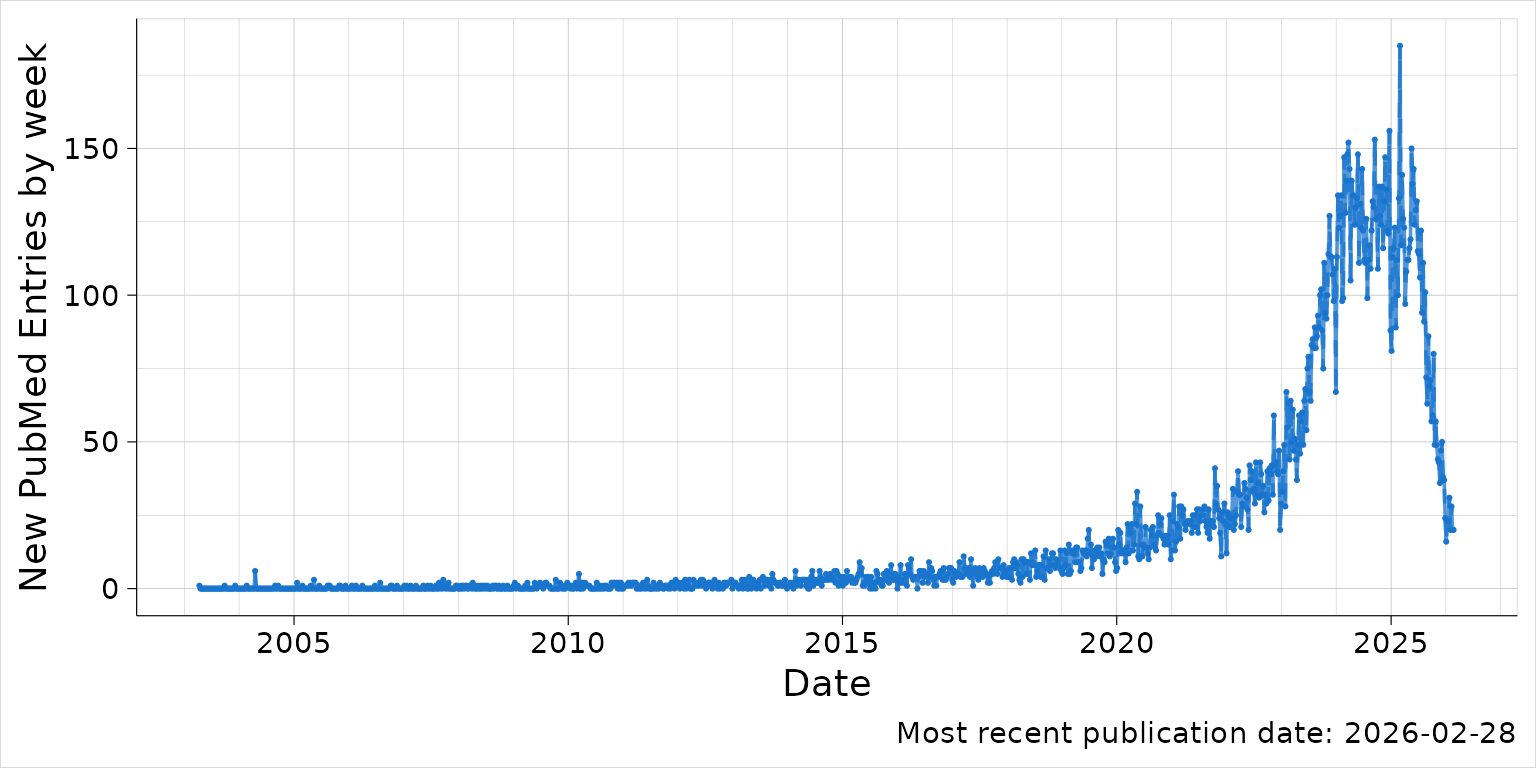
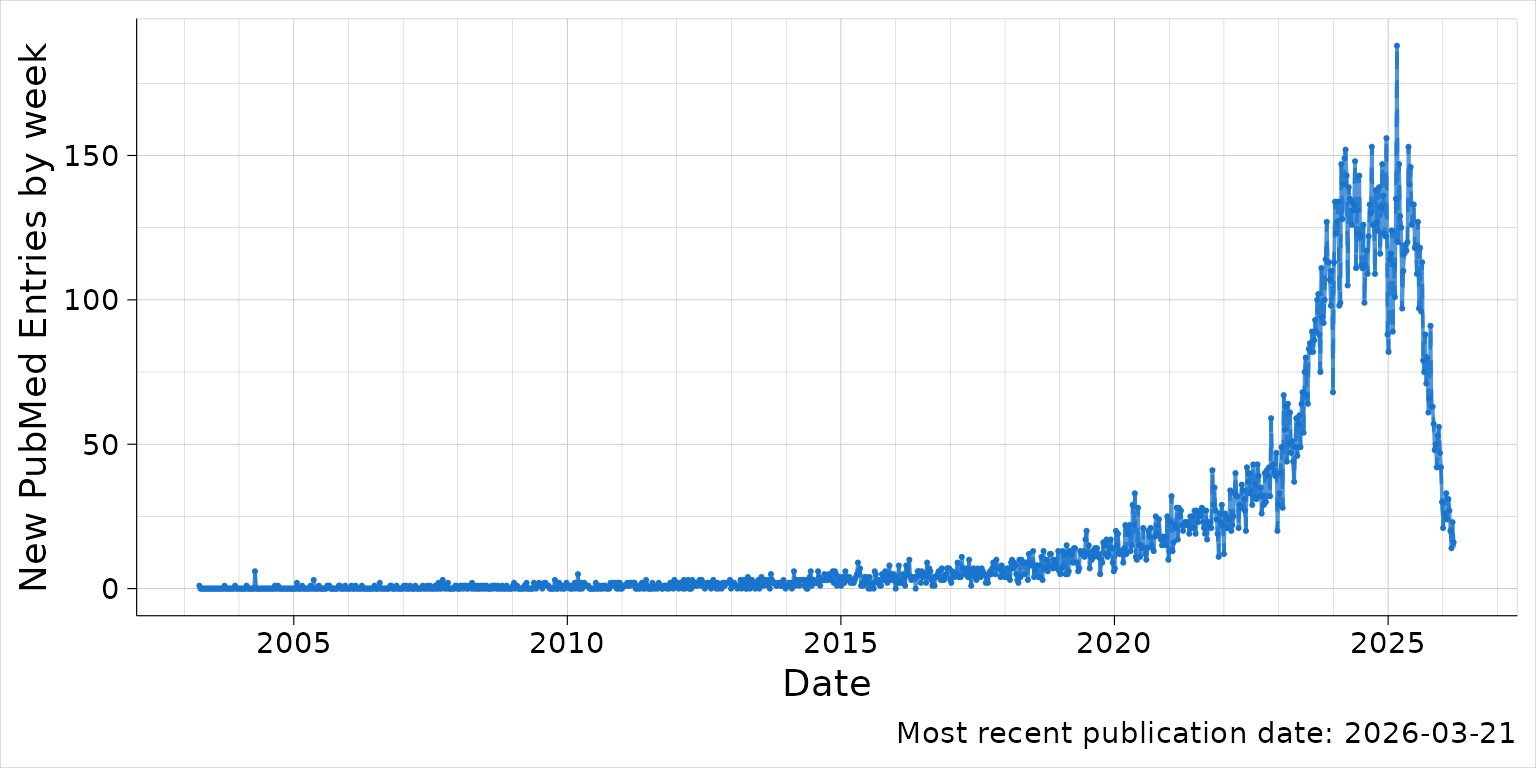
Deploying to gh-pages from @ explodecomputer/PubmedPlot@068eacdf5acdc66ea1c8a3d5640505ac4a8cb4ee 🚀

diff --git a/articles/mr.html b/articles/mr.html
@@ -174,16 +174,16 @@
 <span><span class="co">#&gt; Fetching records 1501 to 1654 </span></span>
 <span><span class="co">#&gt; Searching for year: 2023 </span></span>
 <span><span class="co">#&gt; Search term: "Mendelian randomisation" [tiab] OR "Mendelian randomization" [tiab] AND ("2023/01/01"[dp] : "2023/12/31"[dp]) </span></span>
-<span><span class="co">#&gt; Found 2979 articles matching the search term.</span></span>
+<span><span class="co">#&gt; Found 2980 articles matching the search term.</span></span>
 <span><span class="co">#&gt; Fetching records 1 to 500 </span></span>
 <span><span class="co">#&gt; Fetching records 501 to 1000 </span></span>
 <span><span class="co">#&gt; Fetching records 1001 to 1500 </span></span>
 <span><span class="co">#&gt; Fetching records 1501 to 2000 </span></span>
 <span><span class="co">#&gt; Fetching records 2001 to 2500 </span></span>
-<span><span class="co">#&gt; Fetching records 2501 to 2979 </span></span>
+<span><span class="co">#&gt; Fetching records 2501 to 2980 </span></span>
 <span><span class="co">#&gt; Searching for year: 2024 </span></span>
 <span><span class="co">#&gt; Search term: "Mendelian randomisation" [tiab] OR "Mendelian randomization" [tiab] AND ("2024/01/01"[dp] : "2024/12/31"[dp]) </span></span>
-<span><span class="co">#&gt; Found 6434 articles matching the search term.</span></span>
+<span><span class="co">#&gt; Found 6435 articles matching the search term.</span></span>
 <span><span class="co">#&gt; Fetching records 1 to 500 </span></span>
 <span><span class="co">#&gt; Fetching records 501 to 1000 </span></span>
 <span><span class="co">#&gt; Fetching records 1001 to 1500 </span></span>
@@ -196,10 +196,10 @@
 <span><span class="co">#&gt; Fetching records 4501 to 5000 </span></span>
 <span><span class="co">#&gt; Fetching records 5001 to 5500 </span></span>
 <span><span class="co">#&gt; Fetching records 5501 to 6000 </span></span>
-<span><span class="co">#&gt; Fetching records 6001 to 6434 </span></span>
+<span><span class="co">#&gt; Fetching records 6001 to 6435 </span></span>
 <span><span class="co">#&gt; Searching for year: 2025 </span></span>
 <span><span class="co">#&gt; Search term: "Mendelian randomisation" [tiab] OR "Mendelian randomization" [tiab] AND ("2025/01/01"[dp] : "2025/12/31"[dp]) </span></span>
-<span><span class="co">#&gt; Found 7126 articles matching the search term.</span></span>
+<span><span class="co">#&gt; Found 7131 articles matching the search term.</span></span>
 <span><span class="co">#&gt; Fetching records 1 to 500 </span></span>
 <span><span class="co">#&gt; Fetching records 501 to 1000 </span></span>
 <span><span class="co">#&gt; Fetching records 1001 to 1500 </span></span>
@@ -214,13 +214,14 @@
 <span><span class="co">#&gt; Fetching records 5501 to 6000 </span></span>
 <span><span class="co">#&gt; Fetching records 6001 to 6500 </span></span>
 <span><span class="co">#&gt; Fetching records 6501 to 7000 </span></span>
-<span><span class="co">#&gt; Fetching records 7001 to 7126 </span></span>
+<span><span class="co">#&gt; Fetching records 7001 to 7131 </span></span>
 <span><span class="co">#&gt; Searching for year: 2026 </span></span>
 <span><span class="co">#&gt; Search term: "Mendelian randomisation" [tiab] OR "Mendelian randomization" [tiab] AND ("2026/01/01"[dp] : "2026/12/31"[dp]) </span></span>
-<span><span class="co">#&gt; Found 1213 articles matching the search term.</span></span>
+<span><span class="co">#&gt; Found 1565 articles matching the search term.</span></span>
 <span><span class="co">#&gt; Fetching records 1 to 500 </span></span>
 <span><span class="co">#&gt; Fetching records 501 to 1000 </span></span>
-<span><span class="co">#&gt; Fetching records 1001 to 1213</span></span>
+<span><span class="co">#&gt; Fetching records 1001 to 1500 </span></span>
+<span><span class="co">#&gt; Fetching records 1501 to 1565</span></span>
 <span><span class="co"># write_json(a, "pubmed_abstracts.json", pretty=TRUE)</span></span>
 <span><span class="va">b</span> <span class="op">&lt;-</span> <span class="fu"><a href="../reference/group_by_time_interval.html">group_by_time_interval</a></span><span class="op">(</span><span class="va">a</span><span class="op">)</span></span>
 <span><span class="va">p</span> <span class="op">&lt;-</span> <span class="fu"><a href="../reference/plot_time_interval.html">plot_time_interval</a></span><span class="op">(</span><span class="va">b</span><span class="op">)</span></span></code></pre></div>

diff --git a/articles/mr.md b/articles/mr.md
@@ -112,16 +112,16 @@ a <- PubmedPlot::search_term_by_year('"Mendelian randomisation" [tiab] OR "Mende
 #> Fetching records 1501 to 1654 
 #> Searching for year: 2023 
 #> Search term: "Mendelian randomisation" [tiab] OR "Mendelian randomization" [tiab] AND ("2023/01/01"[dp] : "2023/12/31"[dp]) 
-#> Found 2979 articles matching the search term.
+#> Found 2980 articles matching the search term.
 #> Fetching records 1 to 500 
 #> Fetching records 501 to 1000 
 #> Fetching records 1001 to 1500 
 #> Fetching records 1501 to 2000 
 #> Fetching records 2001 to 2500 
-#> Fetching records 2501 to 2979 
+#> Fetching records 2501 to 2980 
 #> Searching for year: 2024 
 #> Search term: "Mendelian randomisation" [tiab] OR "Mendelian randomization" [tiab] AND ("2024/01/01"[dp] : "2024/12/31"[dp]) 
-#> Found 6434 articles matching the search term.
+#> Found 6435 articles matching the search term.
 #> Fetching records 1 to 500 
 #> Fetching records 501 to 1000 
 #> Fetching records 1001 to 1500 
@@ -134,10 +134,10 @@ a <- PubmedPlot::search_term_by_year('"Mendelian randomisation" [tiab] OR "Mende
 #> Fetching records 4501 to 5000 
 #> Fetching records 5001 to 5500 
 #> Fetching records 5501 to 6000 
-#> Fetching records 6001 to 6434 
+#> Fetching records 6001 to 6435 
 #> Searching for year: 2025 
 #> Search term: "Mendelian randomisation" [tiab] OR "Mendelian randomization" [tiab] AND ("2025/01/01"[dp] : "2025/12/31"[dp]) 
-#> Found 7126 articles matching the search term.
+#> Found 7131 articles matching the search term.
 #> Fetching records 1 to 500 
 #> Fetching records 501 to 1000 
 #> Fetching records 1001 to 1500 
@@ -152,13 +152,14 @@ a <- PubmedPlot::search_term_by_year('"Mendelian randomisation" [tiab] OR "Mende
 #> Fetching records 5501 to 6000 
 #> Fetching records 6001 to 6500 
 #> Fetching records 6501 to 7000 
-#> Fetching records 7001 to 7126 
+#> Fetching records 7001 to 7131 
 #> Searching for year: 2026 
 #> Search term: "Mendelian randomisation" [tiab] OR "Mendelian randomization" [tiab] AND ("2026/01/01"[dp] : "2026/12/31"[dp]) 
-#> Found 1213 articles matching the search term.
+#> Found 1565 articles matching the search term.
 #> Fetching records 1 to 500 
 #> Fetching records 501 to 1000 
-#> Fetching records 1001 to 1213
+#> Fetching records 1001 to 1500 
+#> Fetching records 1501 to 1565
 # write_json(a, "pubmed_abstracts.json", pretty=TRUE)
 b <- group_by_time_interval(a)
 p <- plot_time_interval(b)
